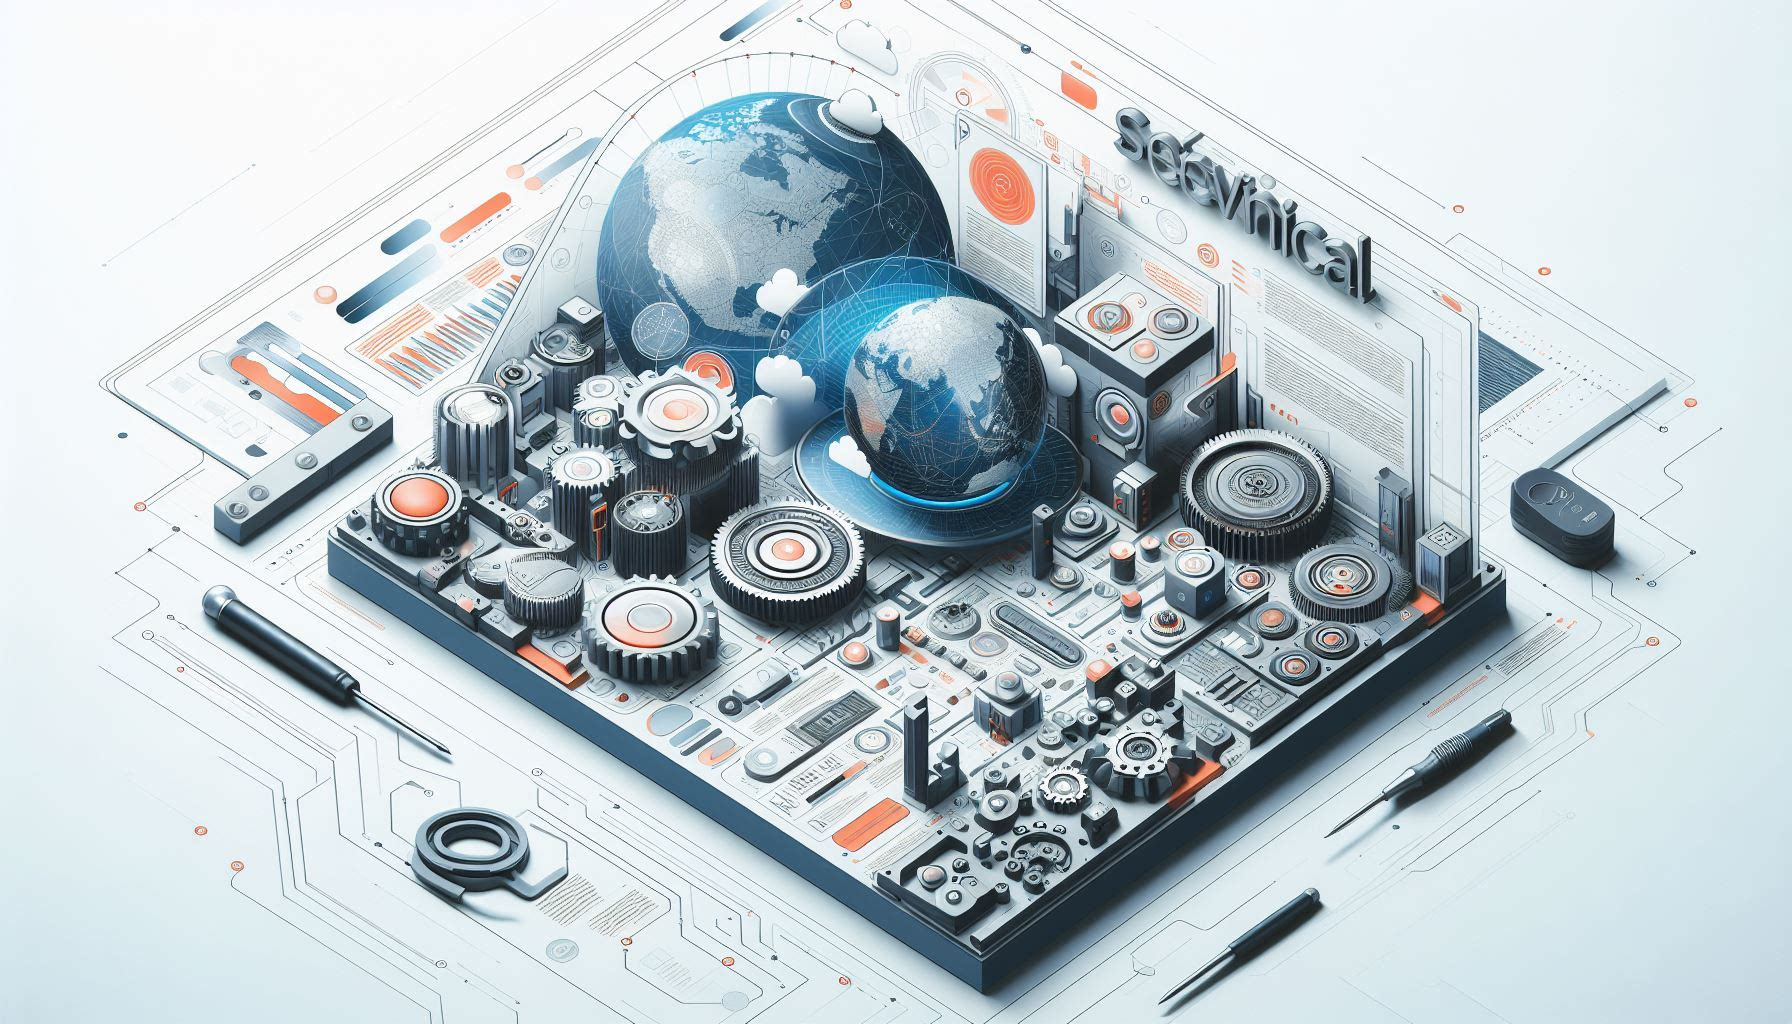
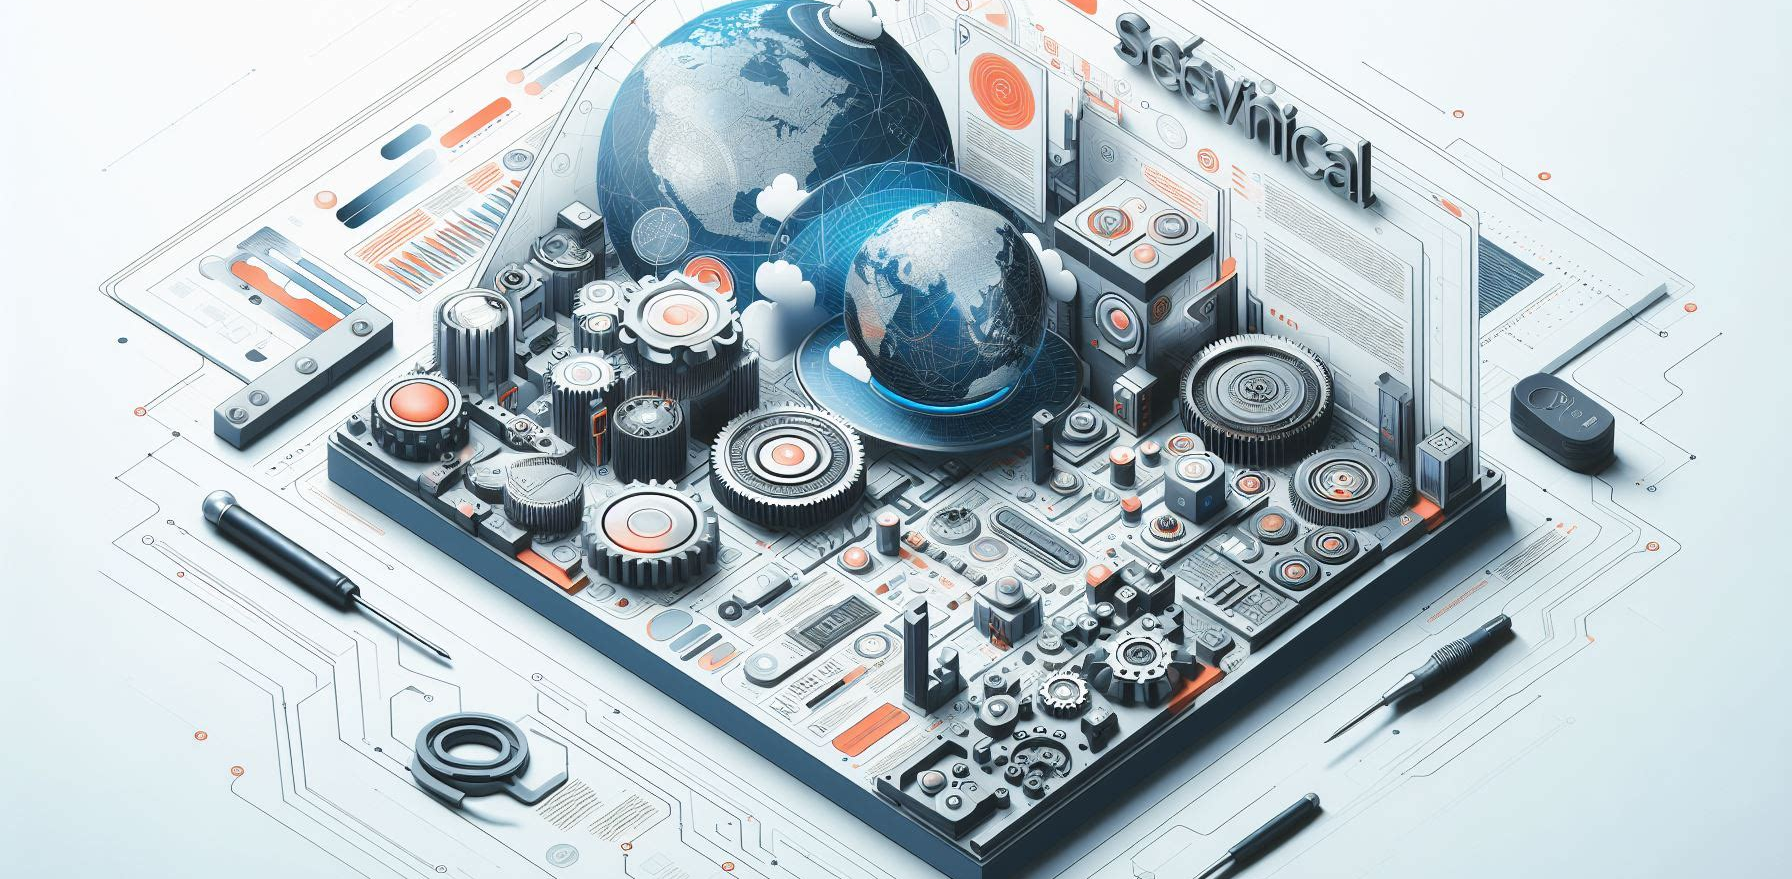
some chages

diff --git a/Qodit_frontend/src/components/Pages/MoreServices/MoreServices.jsx b/Qodit_frontend/src/components/Pages/MoreServices/MoreServices.jsx
@@ -15,7 +15,7 @@ export const MoreServices = (props) => {
       <div className="background-svg">
         <img
           className="background-header"
-          src="img/Services.png"
+          src="img/qoditservice.png"
           width="100%"
           alt=""
         />
